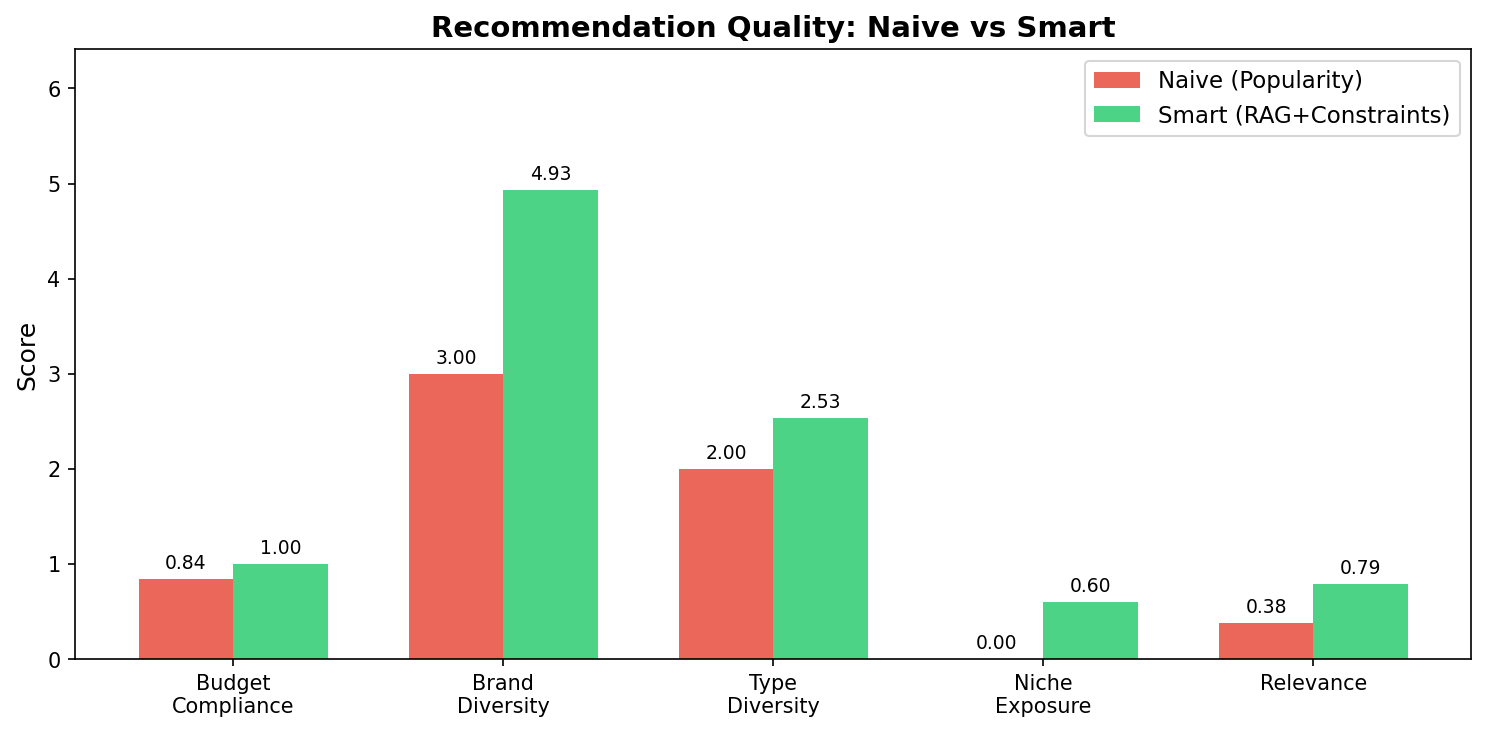
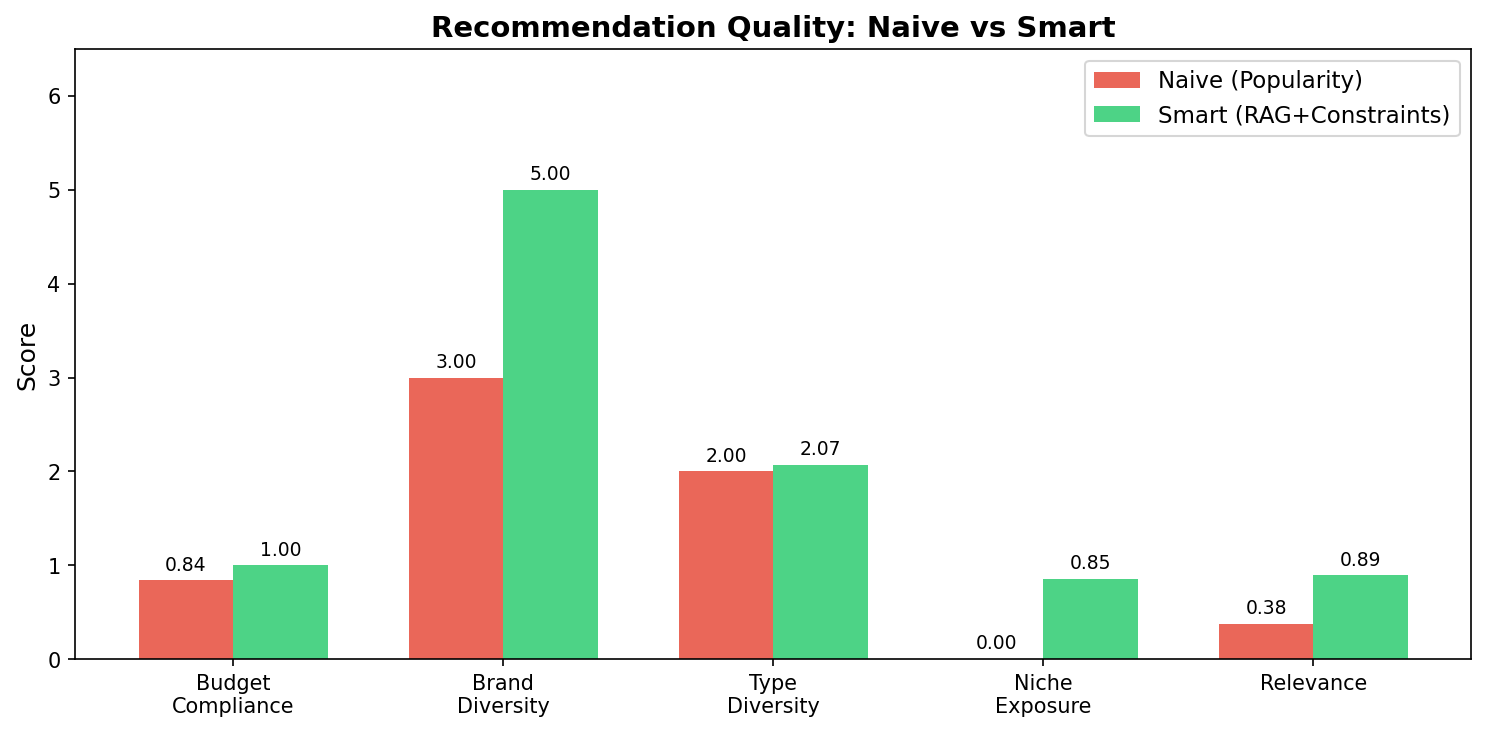
Sync all files with expanded 422-car catalog
Updated hardcoded references to the old 70-car catalog across the
codebase so everything matches the new 422-car, 42-brand dataset.

README: updated catalog section to reflect 422 vehicles, 42 brands
(19 mainstream + 23 niche), and the new price range of $16k to $28M.
Also updated the file tree comment.

index.html: raised the catalog browse price filter from $120k max
to $250k max so users can actually browse the high-end vehicles.
Bumped static asset cache version to v=5.

app.js: updated the catalog filter reset logic to use the new
$250k max price.

car_data.py: updated module docstring from "70+ vehicles" to
"400+ vehicles".

Regenerated evaluation results with the new catalog. Smart mode
now shows stronger improvements over naive: budget compliance
84% to 100%, brand diversity 3 to 5, niche exposure 0% to 85%,
relevance 38% to 89%. Updated evaluation.json and all three
evaluation plots.

diff --git a/templates/index.html b/templates/index.html
@@ -8,7 +8,7 @@
     <link rel="preconnect" href="https://fonts.googleapis.com">
     <link rel="preconnect" href="https://fonts.gstatic.com" crossorigin>
     <link href="https://fonts.googleapis.com/css2?family=Orbitron:wght@500;700;900&family=Rajdhani:wght@400;500;600;700&family=JetBrains+Mono:wght@400;500;700&display=swap" rel="stylesheet">
-    <link rel="stylesheet" href="/static/css/style.css?v=4">
+    <link rel="stylesheet" href="/static/css/style.css?v=5">
 </head>
 <body>
     <div class="dashboard-overlay" aria-hidden="true"></div>
@@ -292,8 +292,8 @@
                         <select id="filterEnergy" class="filter-select"><option value="">All</option></select>
                     </div>
                     <div class="filter-group filter-group--price">
-                        <label for="filterPrice">Max Price <span id="priceLabel">$120k</span></label>
-                        <input type="range" id="filterPrice" class="filter-range" min="20000" max="120000" step="5000" value="120000">
+                        <label for="filterPrice">Max Price <span id="priceLabel">$250k</span></label>
+                        <input type="range" id="filterPrice" class="filter-range" min="20000" max="250000" step="5000" value="250000">
                     </div>
                     <button id="applyFiltersBtn" class="ghost-btn ghost-btn--sm">Apply</button>
                     <button id="resetFiltersBtn" class="ghost-btn ghost-btn--sm ghost-btn--dim">Reset</button>
@@ -331,6 +331,6 @@
     <!-- Toast -->
     <div class="toast" id="toast" role="status" aria-live="polite" hidden></div>
 
-    <script src="/static/js/app.js?v=4"></script>
+    <script src="/static/js/app.js?v=5"></script>
 </body>
 </html>

diff --git a/static/js/app.js b/static/js/app.js
@@ -654,8 +654,8 @@
             dom.filterBrand.value = "";
             dom.filterType.value = "";
             dom.filterEnergy.value = "";
-            dom.filterPrice.value = "120000";
-            dom.priceLabel.textContent = "$120k";
+            dom.filterPrice.value = "250000";
+            dom.priceLabel.textContent = "$250k";
             loadCatalog();
         });
     }

diff --git a/scripts/car_data.py b/scripts/car_data.py
@@ -1,7 +1,7 @@
 """
 Car database for CarRec AI recommendation system.
 
-Generates a structured catalog of 70+ vehicles across brands, types,
+Generates a structured catalog of 400+ vehicles across brands, types,
 price tiers, and energy sources. Supports fairness-aware recommendations
 by including both mainstream and niche brands.
 """

diff --git a/README.md b/README.md
@@ -30,11 +30,11 @@ When no OpenAI API key is available, the system falls back to template-based rea
 
 ## Catalog
 
-70 vehicles across 27 brands, covering sedans, SUVs, MPVs, coupes, hatchbacks, wagons, pickups, and convertibles. Price range from $23,000 to $115,000. Energy types include gasoline, hybrid, PHEV, and BEV.
+422 vehicles across 42 brands, covering sedans, SUVs, MPVs, coupes, hatchbacks, wagons, pickups, and convertibles. Price range from $16,000 to $28,000,000. Energy types include gasoline, hybrid, PHEV, and BEV.
 
-12 mainstream brands: Toyota, Honda, Tesla, BMW, Mercedes-Benz, Audi, Volkswagen, Ford, Chevrolet, Hyundai, Kia, Nissan.
+19 mainstream brands: Toyota, Honda, Tesla, BMW, Mercedes-Benz, Audi, Volkswagen, Ford, Chevrolet, Hyundai, Kia, Nissan, Acura, Infiniti, Lincoln, Cadillac.
 
-15 niche brands: BYD, NIO, Xpeng, Li Auto, Polestar, Rivian, Lucid, Genesis, Mini, Subaru, Mazda, Volvo, Porsche, Lexus, Buick.
+23 niche brands: BYD, NIO, Xpeng, Li Auto, Polestar, Rivian, Lucid, Genesis, Mini, Subaru, Mazda, Volvo, Porsche, Lexus, Buick, Land Rover, Jaguar, Ferrari, Lamborghini, McLaren, Aston Martin, Maserati, Bentley, Rolls-Royce, VinFast, Fisker.
 
 ## Evaluation Results
 
@@ -84,7 +84,7 @@ Module3_Hackathon/
 ├── Dockerfile
 ├── scripts/
 │   ├── __init__.py
-│   ├── car_data.py         # Car catalog (70 cars, 27 brands)
+│   ├── car_data.py         # Car catalog (422 cars, 42 brands)
 │   ├── recommender.py      # LLM recommendation engine
 │   └── evaluator.py        # Evaluation harness
 ├── data/